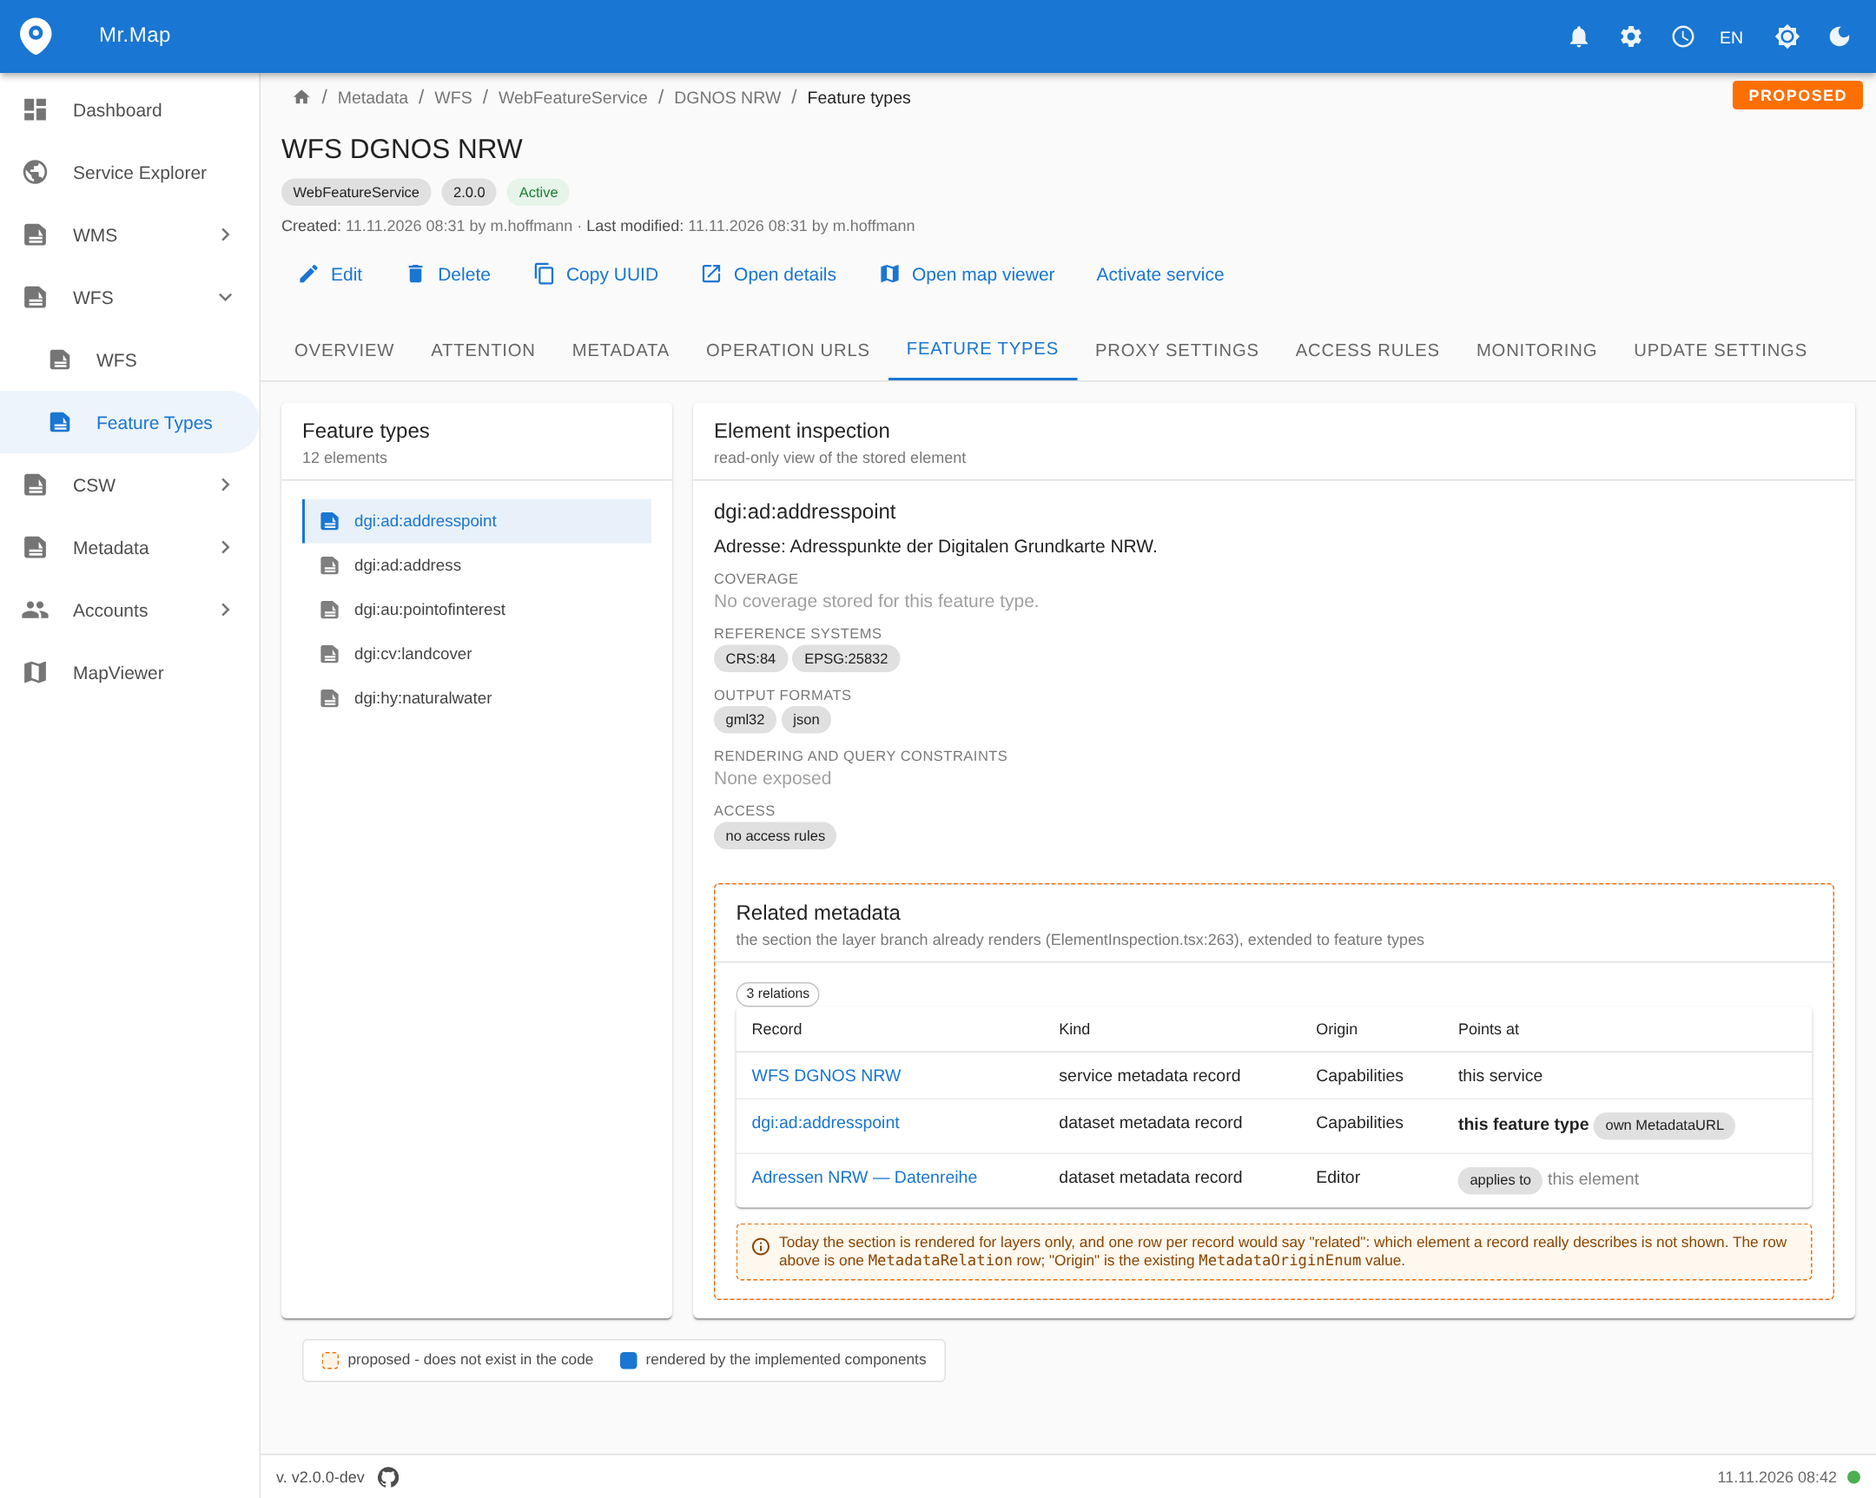
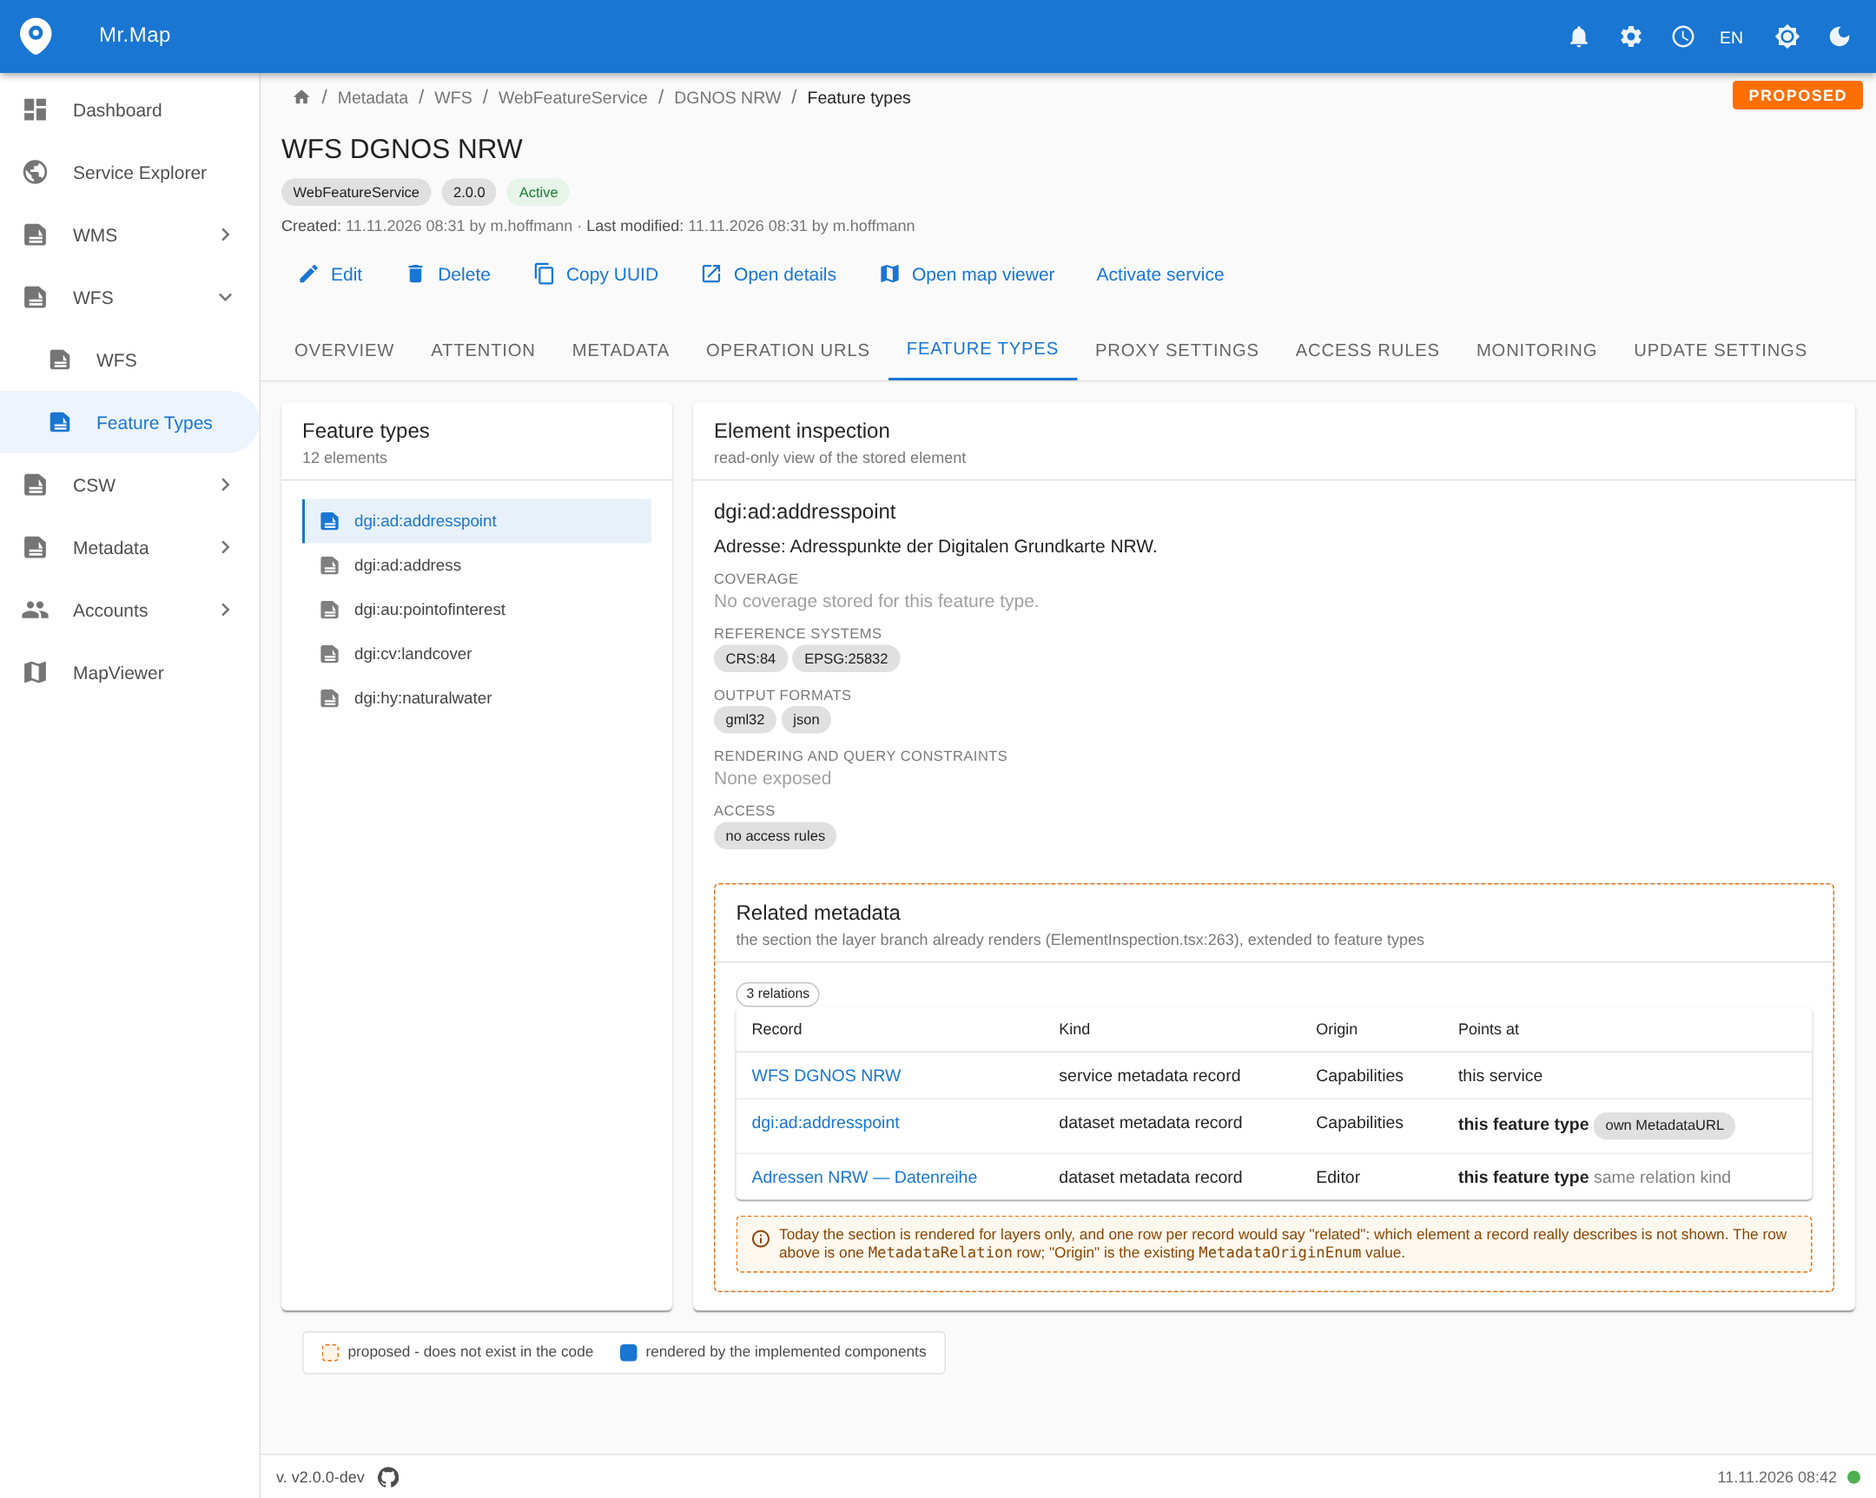
incorporates the review answers of pr #1255: harvesting landing-row precedent, decision register answers, the collecting update as backfill (#1274), and mockups limited to the existing relation kinds

Changed region(s): [[0.1551, 0.7681, 0.9926, 0.9217]]

diff --git a/docs/metadata-collection-design.md b/docs/metadata-collection-design.md
@@ -128,34 +128,57 @@ Registration should adopt it rather than add a parallel mechanism.
 
 | Need | Existing pattern to copy | Where it lives today |
 | --- | --- | --- |
-| one row per expected item, with a state | `HarvestedMetadataRelation` + `collecting_state` | `registry/models/harvest.py`, `registry/enums/harvesting.py` |
+| one landing row per expected item, with its outcome and a retry switch | `TemporaryMdMetadataFile`: `requested_url`, `has_import_error`, `import_error`, `re_schedule` | `registry/models/harvest.py:1124-1161`, manager `registry/managers/havesting.py:473-518` |
+| the number expected, known **before** the fan-out | `HarvestingJob.total_records` is a stored field, filled from the answer of the catalogue | `registry/models/harvest.py:254`, `:733-748` |
+| counters which must not be re-aggregated per poll | stored counters (measured in #1037: annotations on a live run cost 5.85 s cold / 12.2 s worst), answered by index-backed correlated subqueries — a `COUNT FILTER` in front of the whole backlog read the rows of all 411,518 files of one job on every request which rendered its progress | `registry/managers/havesting.py:105-125` (#870, #886), `docs/architecture.md:100-172` |
+| a retry of one item which reports into the same run | `re_schedule` makes `save()` clear the error and schedule the import task again — today only the admin action sets it | `registry/models/harvest.py:1177-1202`, `registry/admin/harvest.py:7-13` |
+| a transient failure which must not become a terminal one | the import task re-raises what its base promises to retry, „or its autoretry is laundered into a terminal has_import_error" (#895) | `registry/tasks/harvest.py:1186-1190` |
+| the per-item table of one run, on the run's screen | `NestedTemporaryMdMetadataFileViewSet` | `registry/urls.py:118-119`, `registry/views/harvesting.py` |
 | phases a run goes through | `HarvestingJob.phase` + `HarvestingPhaseStepper` | `registry/tasks/harvest.py`, `frontend/src/components/Resource/HarvestingJob/` |
-| counters which must not be re-aggregated per poll | stored counters, not annotations (measured in #1037: annotations on a live run cost 5.85 s cold / 12.2 s worst) | `docs/architecture.md:100-172` |
 | run summary screen | `HarvestingRunSummary` + `harvestRun.collectingStates` vocabulary (rendered by `HarvestingRunMissingRecords.tsx:111`) | `frontend/src/components/Resource/HarvestingJob/`, `frontend/src/i18n/en.ts:459-469` |
 | a run card on the object's own page | `HarvestingActivityCard` | `frontend/src/components/Resource/CatalogueService/Show/` |
 | normalized progress and states for the browser | `OperationStateEnum`, `revision`, `error_summary` | `notify/enums.py`, `notify/managers.py` (#1207) |
 | live updates without polling storms | topic websocket + bounded poll fallback | `notify/consumers.py`, Job Center (#1203/#1205/#1206) |
 
-Concretely, as a proposal for a follow-up implementation (each step is independently shippable):
+One property of that pattern deserves notice before it is copied, because it decides where the answer to
+„which reference produced which record" may live: **a successful import deletes its landing row** —
+„Successful imports delete the row. Errors remain for inspection." (`registry/tasks/harvest.py:1174`). The
+landing table is a work queue that keeps its failures, not a ledger. The durable statement „this record
+describes that element" is what §4 already says it is — `MetadataRelation` — and the landing rows answer
+only „what went wrong, and may it be tried again". This is also what the review of this PR decided for
+§8 items 2 and 3.
+
+Concretely, as a proposal for a follow-up implementation (each step is independently shippable), shaped
+by the review answers of §8:
 
 1. **Fix the two bugs first.** `case "LayerRemoteMetadata"` (A) and the position of `step_done` (B) are two
    one-line changes plus a test that calls `fetch_remote_metadata_xml` with each of the four reference kinds.
    This alone turns a silent total loss for WFS into a visible, correct run.
-2. **Give a collecting run a truthful end state.** Either a distinct terminal state for "ended with findings"
-   (which `OperationStateEnum` does not have yet — needs a decision, see §8), or a stored per-process summary
-   (`references_total / stored / failed / skipped`) that the serializer exposes. The chord body stays as it is.
-3. **Persist the outcome per reference**, in the `RemoteMetadata` subclass rows (or one table for all kinds,
-   as `HarvestedMetadataRelation` does): the reference keeps `link` + `describes` and gains
-   `collecting_state`, `collected_at`, `error_kind`, `error_detail`, and a nullable FK to the created record.
-   That answers §5 rows 3-5 without heuristic matching, and makes a per-reference retry possible.
-   **Never** derive a counter per request — store it (see the #1037 measurement above).
-4. **Deduplicate references** by making `link` unique per described object (the `TODO` in
-   `registry/models/metadata.py:502-504` already asks for it), so re-registration updates instead of stacking.
-5. **Close the relation gap**: let `ElementInspection` use the same data for both element kinds (the branch at
+2. **Give a collecting run a truthful end state** the way harvesting and an update waiting for review do it:
+   `BackgroundProcess.objects.set_action_required()` plus a stored summary the serializer exposes
+   (`references_total / stored / failed / skipped`). The chord body stays as it is; what it must stop doing
+   is answering `completed` while references failed (§8 item 1).
+3. **Give the collection a landing row per reference**, in the shape of `TemporaryMdMetadataFile`: the run
+   stores how many references it expects before the fan-out, each row keeps the URL, what it describes, an
+   error flag, an error text and a re-schedule switch; the counters of the run are answered the way #886
+   taught. `RemoteMetadata` is not that table — its own docstring calls it the registration's staging list
+   (`registry/models/metadata.py:492-495`) and the review rejected it for this purpose (§8 item 2). Whether
+   to reuse `TemporaryMdMetadataFile` itself or write its registration sibling is #1263's open question.
+4. **Make transient failures retryable, terminal ones terminal**, in the fetch task the way the import task
+   does it (§8 item 3, `registry/tasks/harvest.py:1186-1190`) — which is also the fix of defect E — and
+   expose the model's existing retry as an endpoint and a button, not a new mechanism.
+5. **Backfill by collecting during an update** instead of migrating: the update path never collects today
+   (`collect_metadata_records` appears only in the registration flow — §8 item 5), but an update already maps
+   the new capabilities through the configs that declare the reference models, so collecting there reaches
+   every existing service without a data migration. The epic's child for this is #1274.
+6. **Deduplicate references** by making `link` unique per described object (the `TODO` in
+   `registry/models/metadata.py:502-504` already asks for it), so re-registration updates instead of stacking
+   — only after #1261 measured whether they actually stack.
+7. **Close the relation gap**: let `ElementInspection` use the same data for both element kinds (the branch at
    `:110-113` is the only thing that differs), and show *which* element a record describes rather than only
-   "related". Adding the "applies to" direction needs a model decision (§8) — until then the graph should say
-   what it does *not* know instead of drawing one undirected "related" edge.
-6. **Make the 100-relation cap a facet, not a ceiling**: the tables already filter per group, so a count per
+   "related" — with the existing relation kinds only; RFC #992 owns the vocabulary of relations and the
+   review decided against adding "applies to" or "source" here (§8 item 4).
+8. **Make the 100-relation cap a facet, not a ceiling**: the tables already filter per group, so a count per
    group plus a link "show all of this group" removes the only place where a user sees a truncated set.
 
 ## 7. Mockups
@@ -172,9 +195,17 @@ See [`images/metadata-collection/README.md`](images/metadata-collection/README.m
 | `proposed-registration-collection-card.png` | one card per registration on the service overview: phases, progress, per-outcome counters |
 | `proposed-collection-outcome.png` | the per-reference table on the process screen, with the skipped references of defect A visible |
 | `proposed-featuretype-metadata-relations.png` | the element inspection with the metadata section for a feature type, showing which record describes what |
-| `proposed-dataset-relationship-graph.png` | the relations graph grouped by what a relation actually means, including the directions it cannot express today |
+| `proposed-dataset-relationship-graph.png` | the relations graph grouped by what a relation actually means — with the existing relation kinds only, per RFC #992 and the review of this PR |
 
-## 8. Decisions this needs from a human
+## 8. Decisions this needs from a human — and what the review answered
+
+All six were asked as the numbered decision request on the epic
+([Q1–Q6](https://github.com/mrmap-community/mrmap/issues/1256#issuecomment-6796247548)) and answered inline
+in [the review of PR #1255](https://github.com/mrmap-community/mrmap/pull/1255). The answers are quoted
+because their wording is the decision; the epic's children carry the consequence. They are **not yet in
+the Decision register** — `scripts/decisions` records an answer from a comment on the issue that names its
+question, and a review comment on a pull request does neither, so the register still reads *open* until
+the answers are given on #1256 in the `Q1: B` grammar. Recording them is not implementation approval.
 
 1. **Terminal state.** Should a collection that ended with findings stay `completed` plus a summary, or get a
    distinguishable state? The vocabulary for that state exists: `action_required` is a derived
@@ -185,26 +216,63 @@ See [`images/metadata-collection/README.md`](images/metadata-collection/README.m
    before it looks at the flag (`notify/enums.py:80-90`), so a run cannot be both finished and awaiting
    attention unless the stored status stays non-terminal (which parks it in the drawer's *Waiting* tab,
    whose filter is `status: pending` — `JobCenter/counts.ts:12-17`) or the shared derivation changes.
+   > **Answered:** „distinguishable state. use equivalent way to harvesting and update"
+   > ([r4541817433](https://github.com/mrmap-community/mrmap/pull/1255#discussion_r4541817433)) — so the
+   > flag, not a new state; what the flag needs from the derivation is #1259's open detail.
 2. **Where the per-reference outcome lives.** New columns on the four `RemoteMetadata` subclasses, or one
    table per registration run (the `HarvestedMetadataRelation` shape). The first is cheaper, the second keeps
    history across re-registrations.
+   > **Answered:** „Maybe we could use the existing TemporaryMDFile model instead of RemoteMetadata model.
+   > We only temporary need this model for background import. Final relations between Metadata records and
+   > registered resources lives in MetadataRelation model"
+   > ([r4541842215](https://github.com/mrmap-community/mrmap/pull/1255#discussion_r4541842215)). The model
+   > is `TemporaryMdMetadataFile` (`registry/models/harvest.py:1124-1161`); `RemoteMetadata` is rejected as
+   > the outcome store — which its own docstring agrees with: it exists „to store linked iso metadata
+   > records **while registration processing**" (`registry/models/metadata.py:492-495`). #1263 carries the
+   > remaining question: reuse that model or build its sibling for registration runs.
 3. **Retry semantics.** A per-reference "collect now" action needs an endpoint that starts work for one
    reference; today nothing but abort exists (`JobCenterDrawer.tsx:94-103`: no api restarts a decided
    process, `:205` is the only action).
+   > **Answered:** „yes we need a retry functionality. TemporaryMDFile model already has this retry in the
+   > model implemented." ([r4541851548](https://github.com/mrmap-community/mrmap/pull/1255#discussion_r4541851548))
+   > — verified: `re_schedule` makes `save()` clear the error and schedule the import task again
+   > (`registry/models/harvest.py:1177-1202`); today only the admin action sets it
+   > (`registry/admin/harvest.py:7-13`). So the work is an endpoint and a button, not a mechanism.
 4. **The "applies to" direction.** Add a relation kind (and what ISO element it mirrors), or state in the UI
    that MrMap's relations always mean "describes"?
+   > **Answered:** „only use the existing relations. See also the open rfc
+   > [#992](https://github.com/mrmap-community/mrmap/issues/992) which answers all relations we need."
+   > ([r4541861570](https://github.com/mrmap-community/mrmap/pull/1255#discussion_r4541861570)) and, on the
+   > graph mockup: „the relation types of applies to and source are not needed currently."
+   > ([r4538304447](https://github.com/mrmap-community/mrmap/pull/1255#discussion_r4538304447)) — no new
+   > relation kind in this epic; #1268 keeps only what a relation can say with the columns it has.
 5. **Backfill.** Existing services have `RemoteMetadata` rows without outcome, and duplicate rows from every
    update. Migrate, or accept and let the next registration rewrite them?
+   > **Answered:** „just 'harvest' again inside the update processing. That will backfill all existing
+   > services" ([r4541870176](https://github.com/mrmap-community/mrmap/pull/1255#discussion_r4541870176)).
+   > Worth knowing before that is built: the update path never collects today.
+   > `collect_metadata_records` appears only in the registration flow
+   > (`registry/tasks/service.py:34`, `:145`; `registry/views/service.py:352`, `:717`, `:1011`); neither
+   > `registry/tasks/update.py` nor `registry/models/update.py` names it or `build_ogc_service`, while the
+   > update maps the new capabilities through the same configs that declare the reference models
+   > (`registry/mappers/configs/wms130.py:229`, `wfs200.py:202`). The new child of the epic takes this.
 6. **Naming.** The German label of the option (defect K) and the vocabulary of the outcomes
    (reuse `harvestRun.collectingStates` or a registration-specific set?).
-
-These six are asked as the numbered decision request on the epic — answering them is a design decision,
-not implementation approval.
+   > **Answered with a correction of the premise:** „i dont understand the question right. The function
+   > behind restore metadata is to discard all changes by user and restore to the original harvested
+   > content." ([r4541888319](https://github.com/mrmap-community/mrmap/pull/1255#discussion_r4541888319)).
+   > That function exists and is described at `registry/serializers/service.py:514` — „the original xml
+   > backup file as secured url to restore the xml field". What remains of the finding is smaller than the
+   > question suggested and is stated on #1267: in the whole German catalog
+   > „Metadaten wiederherstellen" occurs **once**, as the translation of the msgid
+   > `collect metadata records` (`backend/locale/de/LC_MESSAGES/django.po:3128-3130`), and the frontend
+   > catalog has no such string at all — so the registration dialog offers the restore function's name for
+   > the collection option.
 
 ## 9. Where this went
 
 The findings are published as **[epic #1256](https://github.com/mrmap-community/mrmap/issues/1256)**,
-`slug: metadata-collection`, with twelve children (#1257–#1268) whose sub-issue and blocking relations
+`slug: metadata-collection`, with thirteen children (#1257–#1268 and #1274) whose sub-issue and blocking relations
 are registered on GitHub itself. The two one-line bugs are #1257 and #1258; the transport bounds are
 #1260; the bookkeeping clean-up is #1261; everything that reports the outcome reads from #1263. Nothing
 in this document was implemented, and no `agent: approved` was applied.

diff --git a/docs/images/metadata-collection/README.md b/docs/images/metadata-collection/README.md
@@ -31,7 +31,7 @@ that specifies it.
 | `proposed-registration-collection-card.png` | one card per registration on the service overview: phases, progress, counters per outcome |
 | `proposed-collection-outcome.png` | the background process screen with one row per metadata reference and its outcome, next to the log as it looks today |
 | `proposed-featuretype-metadata-relations.png` | element inspection with the metadata section for a feature type, showing which record describes what |
-| `proposed-dataset-relationship-graph.png` | the relations graph grouped by what a relation means, including the directions the model cannot express yet |
+| `proposed-dataset-relationship-graph.png` | the relations graph grouped by what a relation means — with the existing relation kinds only, per RFC #992 and the review of PR #1255 |
 
 ## How they were made
 
